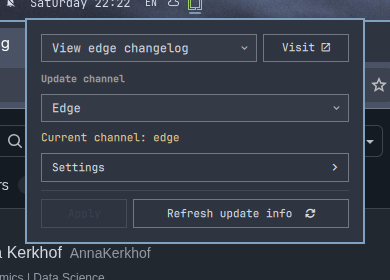
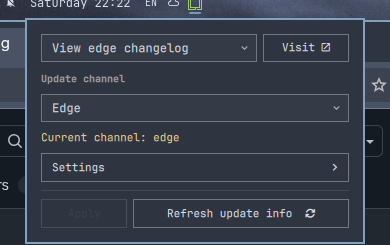
fix: crop a third-party name from the update channel screenshot

diff --git a/src/content/docs/docs/plugins/omarchy-update-stream.md b/src/content/docs/docs/plugins/omarchy-update-stream.md
@@ -26,7 +26,7 @@ screenshots:
     alt: Update Channel panel and settings
     caption: Update channel controls
     width: 390
-    height: 280
+    height: 245
 ---
 
 - It takes the place of Omarchy's update icon and gives it back when removed.
